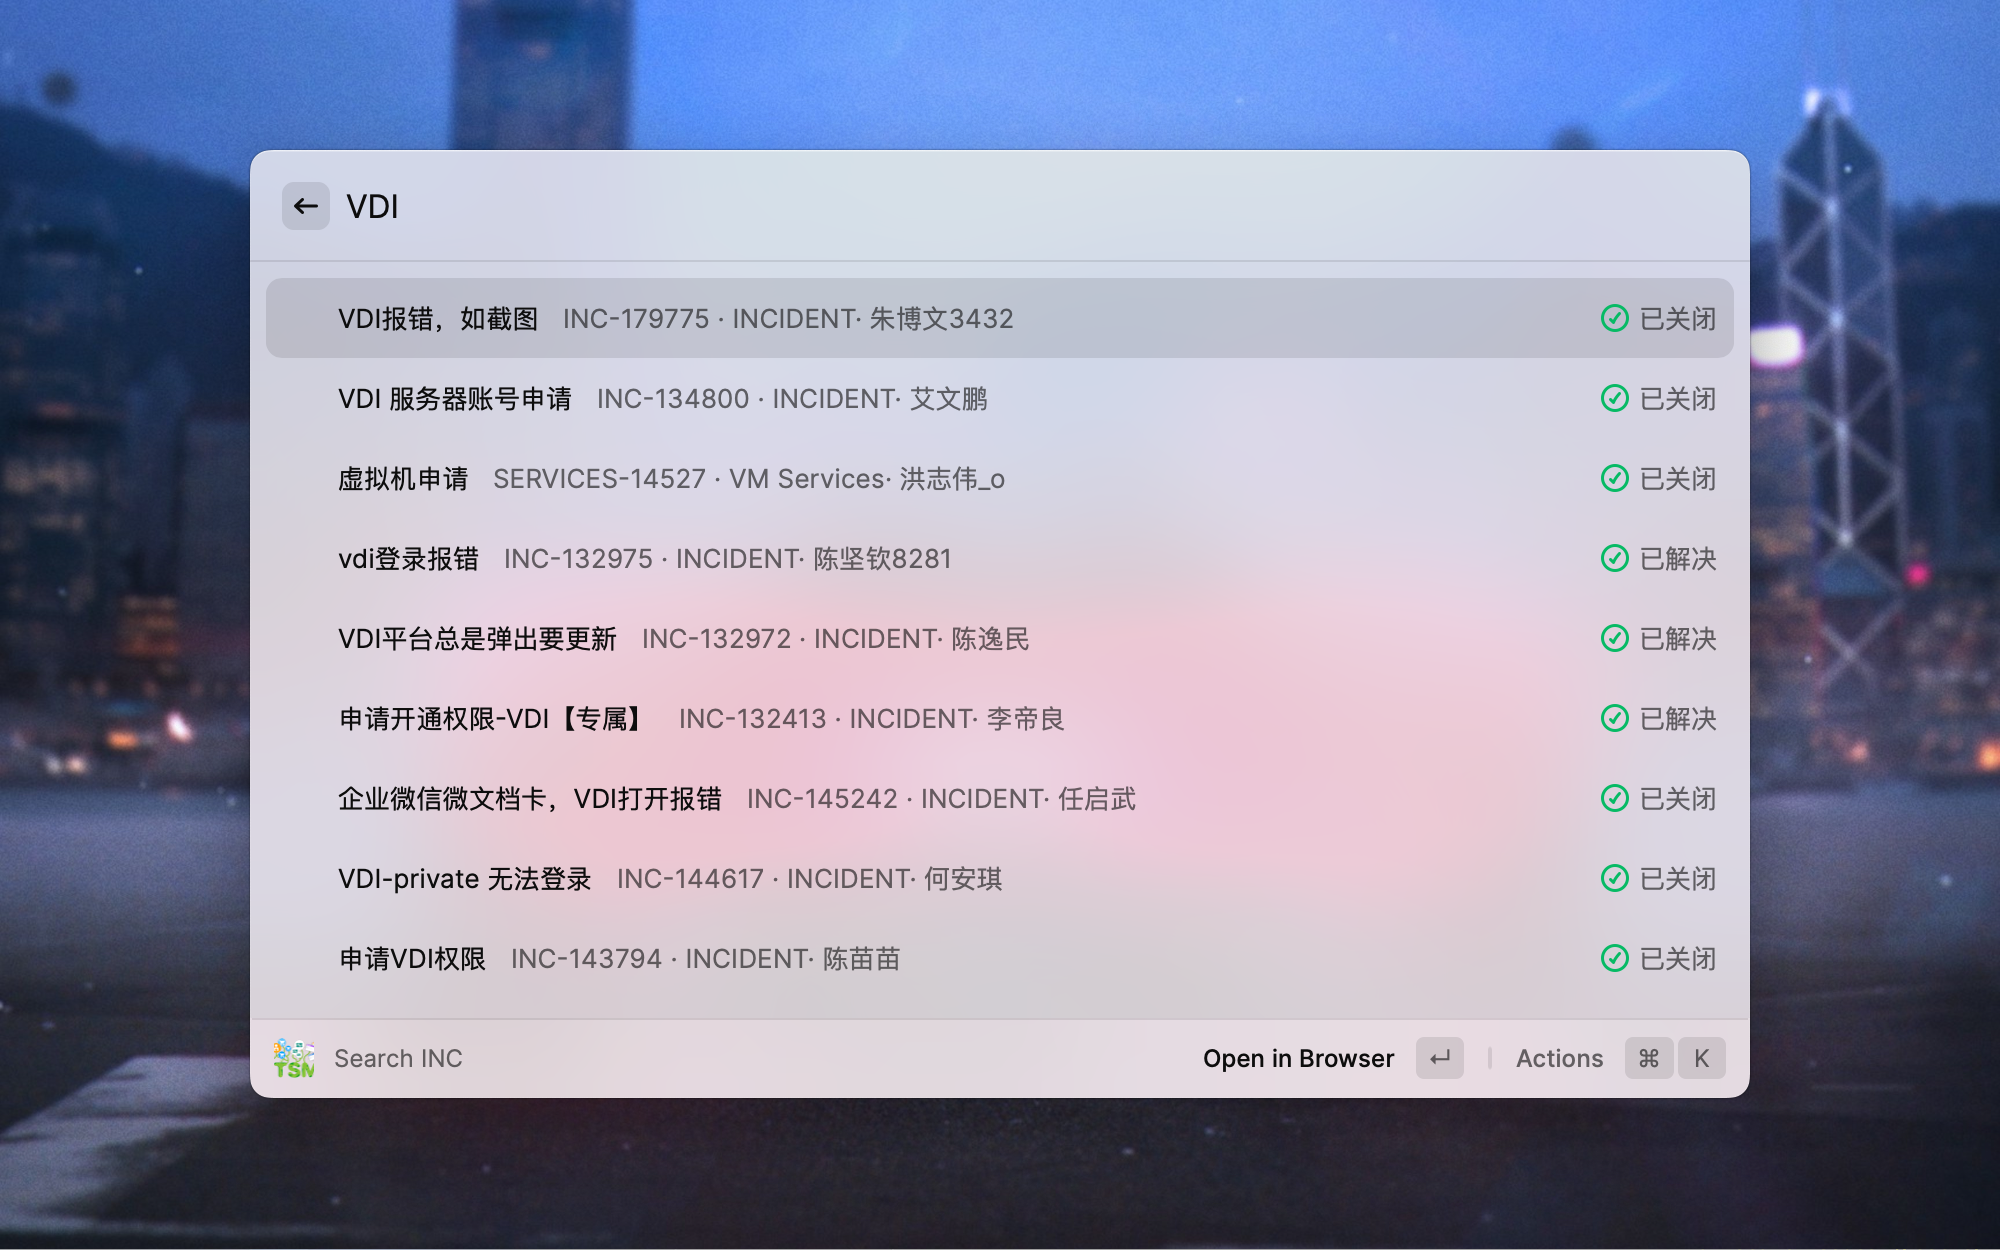
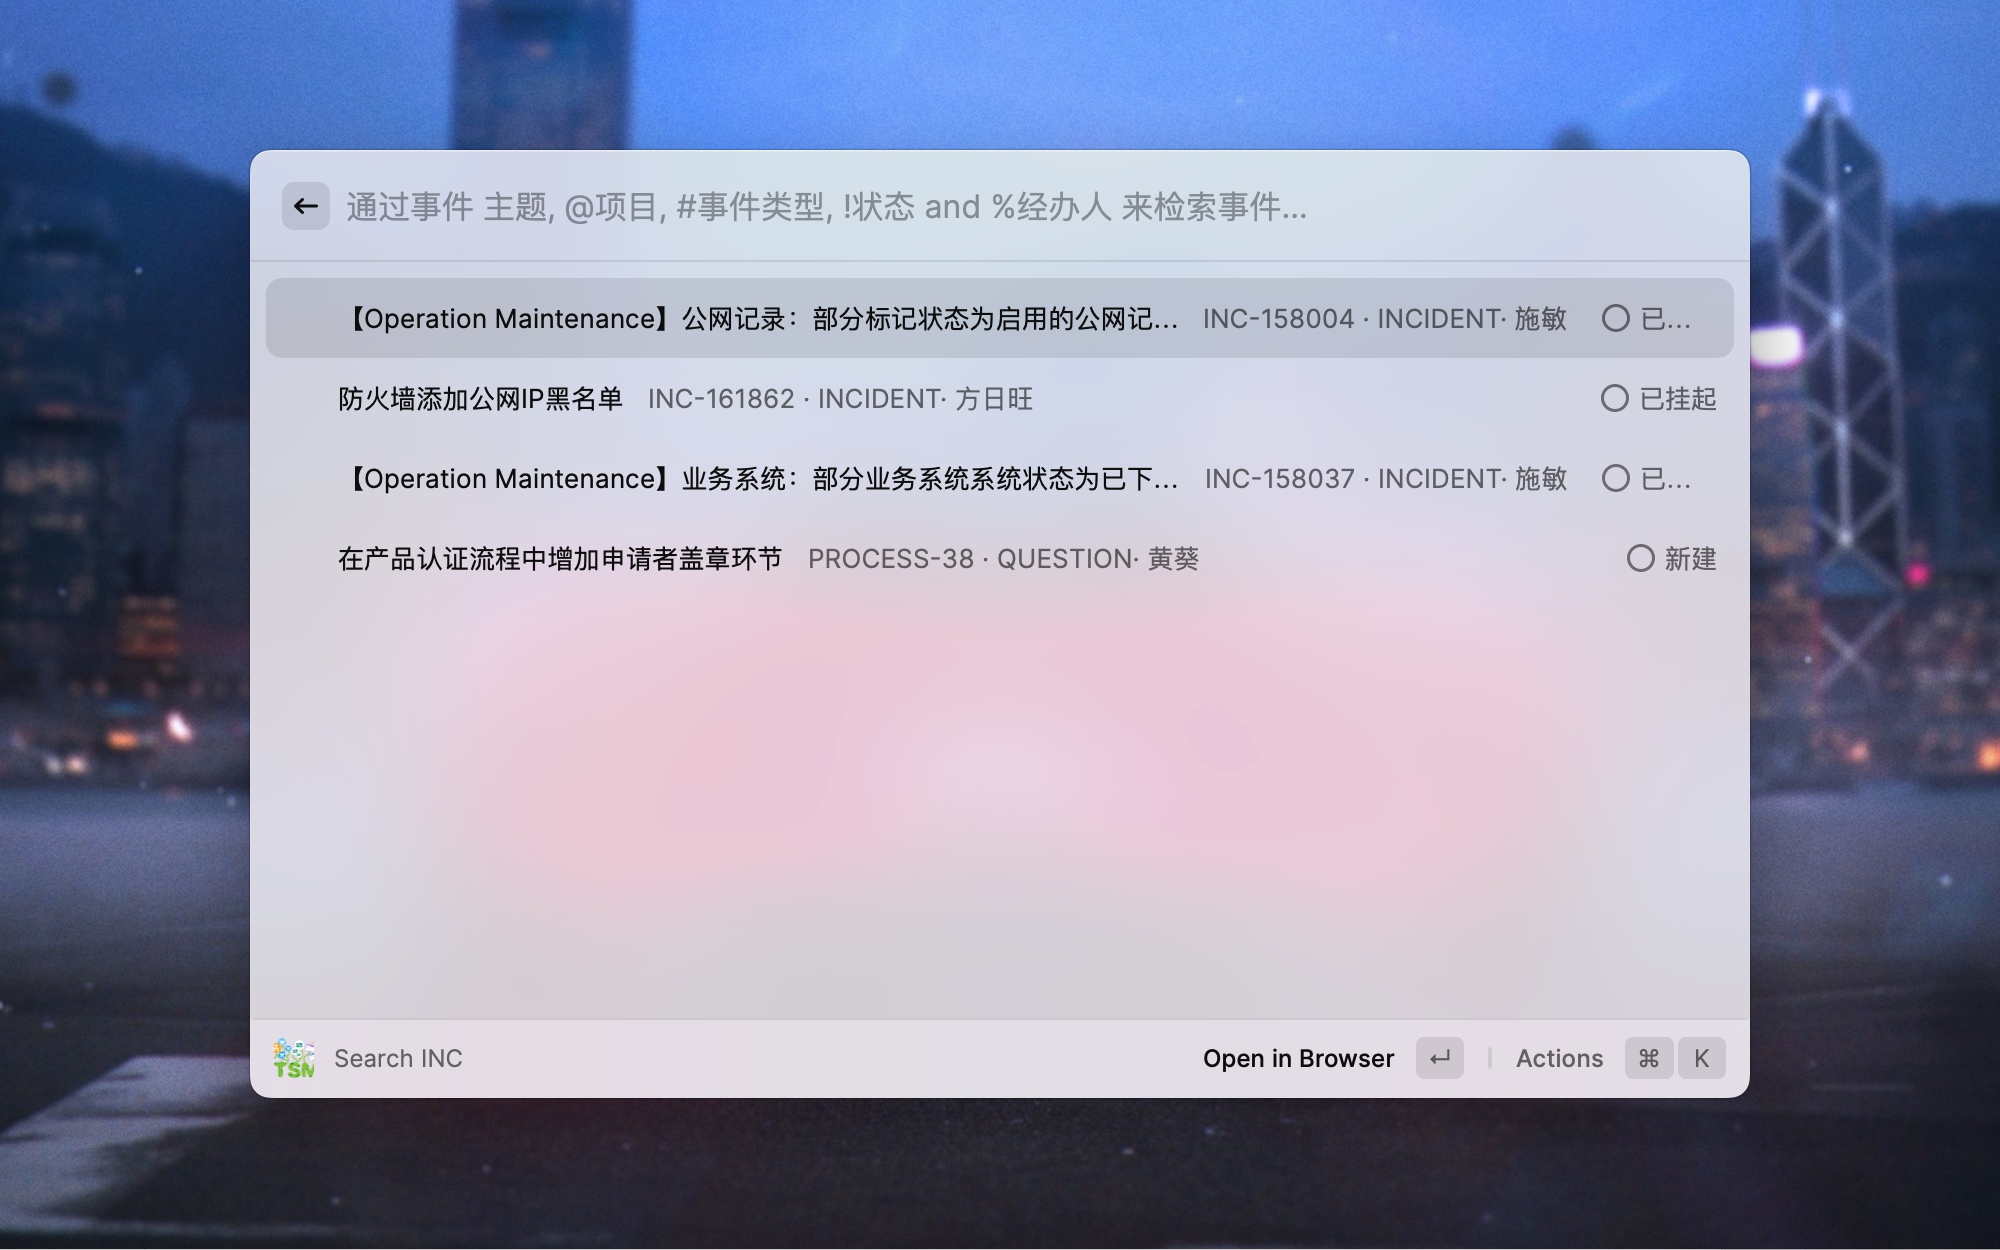
ITSM&jira改版插件发布

diff --git a/raycast-extensions/jira-search/src/issue.ts b/raycast-extensions/jira-search/src/issue.ts
@@ -1,4 +1,4 @@
-import { jiraFetchObject, jiraUrl } from "./jira";
+import { jiraFetchObject, jiraUrl, defaultJQL } from "./jira";
 import { jiraImage } from "./image";
 import { ResultItem, SearchCommand } from "./command";
 import { Color, Icon, Image } from "@raycast/api";
@@ -103,7 +103,12 @@ function buildJql(query: string): string {
   ];
 
   const jql = jqlConditions.filter((condition) => condition !== undefined).join(" AND ");
-  return jql + " order by lastViewed desc";
+  if(jql) {
+    var cusjql = `${jql}  order by lastViewed desc`;
+  } else {
+    var cusjql = `${defaultJQL} order by lastViewed desc`;
+  }
+  return cusjql;
 }
 
 function jqlFor(query: string): string {

diff --git a/raycast-extensions/jira-search/src/jira.ts b/raycast-extensions/jira-search/src/jira.ts
@@ -3,8 +3,9 @@ import fetch, { FetchError, Response } from "node-fetch";
 import { ErrorText, PresentableError } from "./exception";
 import * as https from "https";
 
-const prefs: { domain: string; token: string; unsafeHTTPS: boolean } = getPreferenceValues();
+const prefs: { domain: string; token: string; unsafeHTTPS: boolean; defaultjql: string } = getPreferenceValues();
 export const jiraUrl = `https://${prefs.domain}`;
+export const defaultJQL = prefs.defaultjql;
 
 const headers = {
   Accept: "application/json",

diff --git a/raycast-extensions/jira-search/README.md b/raycast-extensions/jira-search/README.md
@@ -1,36 +1,3 @@
-# Raycast Jira Search (Self-Hosted Edition)
+# Raycast Jira Search (CVTE)
 
-This [Raycast](https://raycast.com) extension lets you quickly find Jira issues, projects, and boards. This version is forked from the JIRA
-search extension built by sven to work with JIRA server instances.
-
-![screencast](media/screencast.gif)
-
-## Features
-
-- Find issues by text and project and type, where the text search is much more tolerant than the one built in to Raycast.
-  - Filter issues by project using `@project` syntax.
-  - Filter issue by type using `#issueType` syntax.
-  - Filter issue by status using `!status` or `!"my fancy status"` (use double quotes if status contains spaces) syntax.
-  - Filter issue by assignee using `%email` or `%"full name"` (use double quotes if assignee contains spaces) syntax.
-  - For example enter `pdf export @dev @it #bug #story` to find all issues which contain words starting with "pdf" and "export" and which are in the "DEV" or "IT" project and which are of type "Bug" or "Story."
-  - Find issue directly by issue key (for example `DEV-1234`).
-- Find projects by title.
-- Find boards by title.
-- Use the following actions on found entities:
-  - Open in browser
-  - Copy URL
-  - Copy markdown link
-  - Copy HTML link
-
-**Note:** This extension does not provide an issue preview or issue editing like the built-in extension – it is totally focused on quickly opening Jira entities in your browser.
-
-## Setup
-
-To connect the extension to your Jira instance you need to fill the following prefernces:
-
-- **Jira Domain:** The domain of your Jira instance like `mycompany.atlassian.net` or with a base URL like `mycompany.atlassian.net/baseUrl/jira`.
-- **Personal Access Token:** A personal access token created as described in [Using Personal Access Tokens](https://confluence.atlassian.com/enterprise/using-personal-access-tokens-1026032365.html).
-
-### Unsafe HTTPS
-
-If you JIRA instance uses a self-signed certificate, you can enable Unsafe HTTPS in the extension settings to stop network errors from occurring.
+CVTE Jira检索插件，在原作者 @sven 基础上修正中文检索异常问题及CVTE个性化适配
